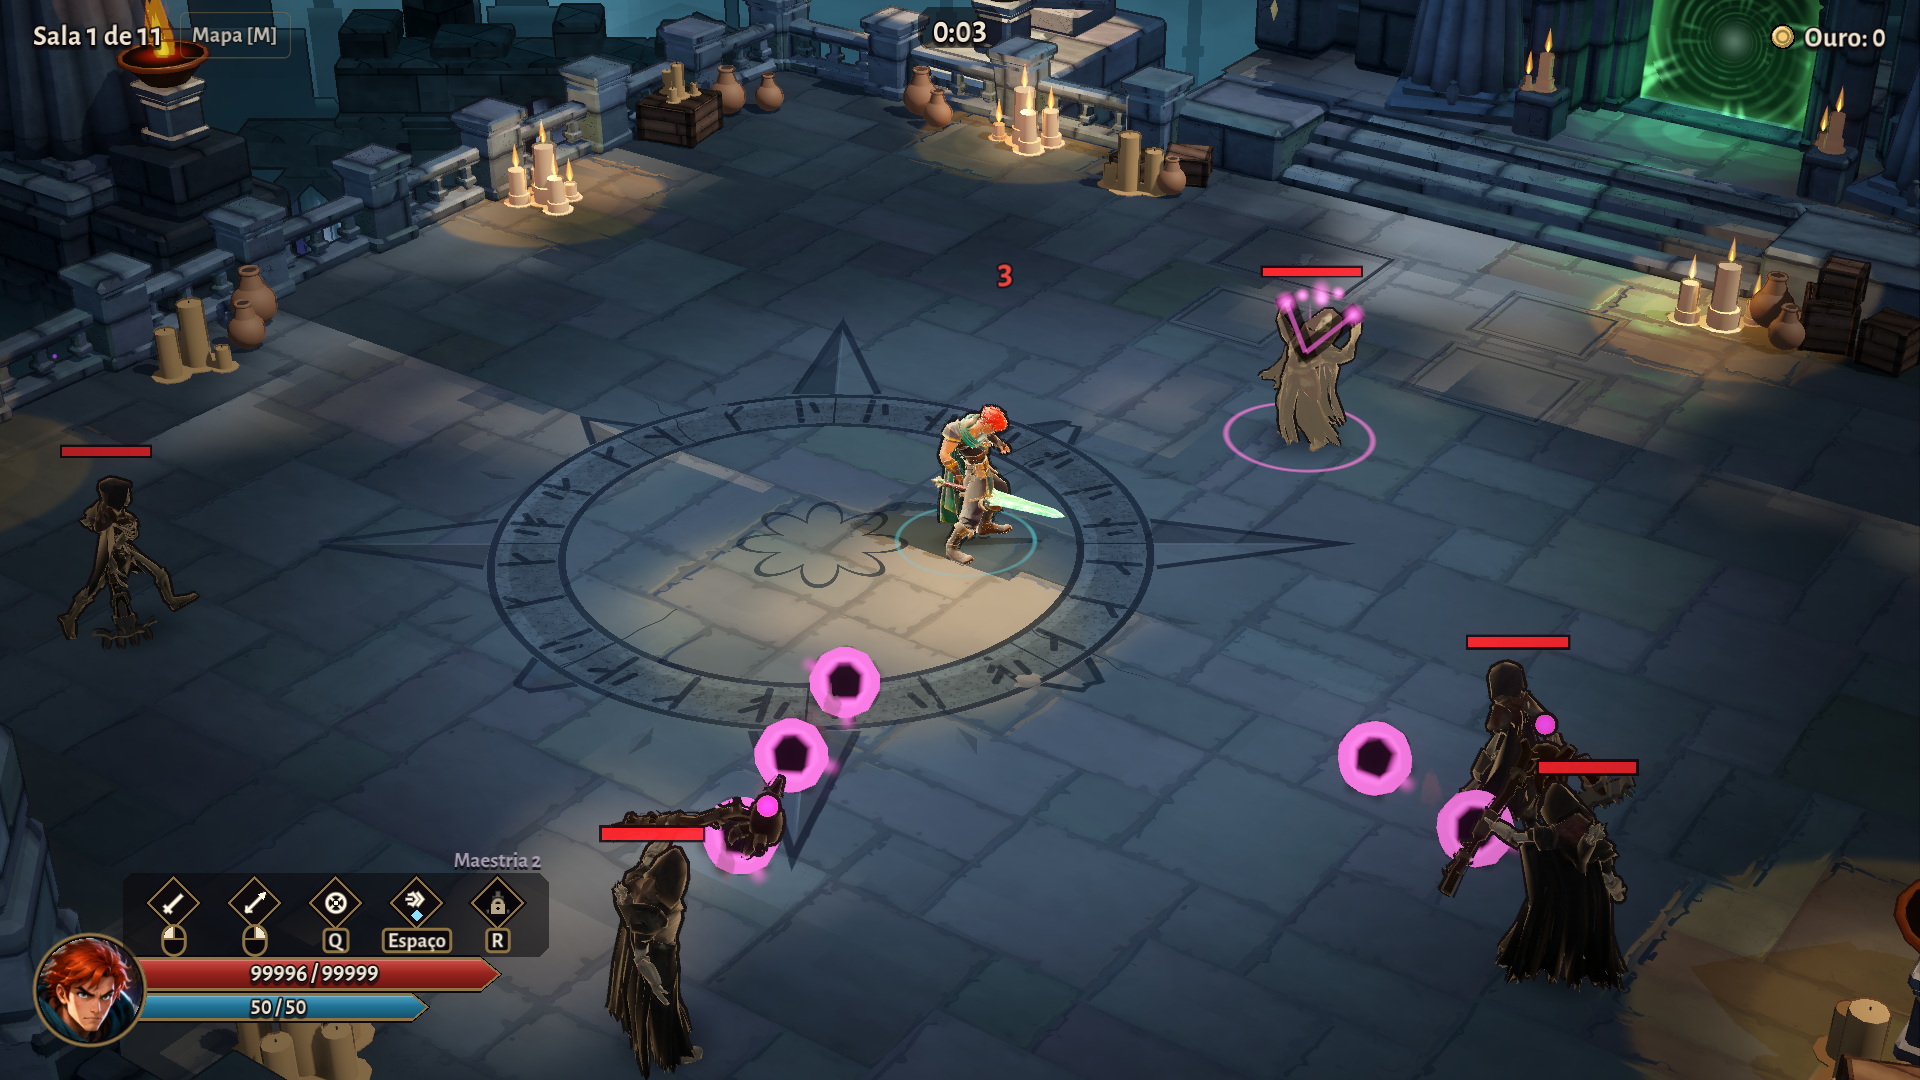
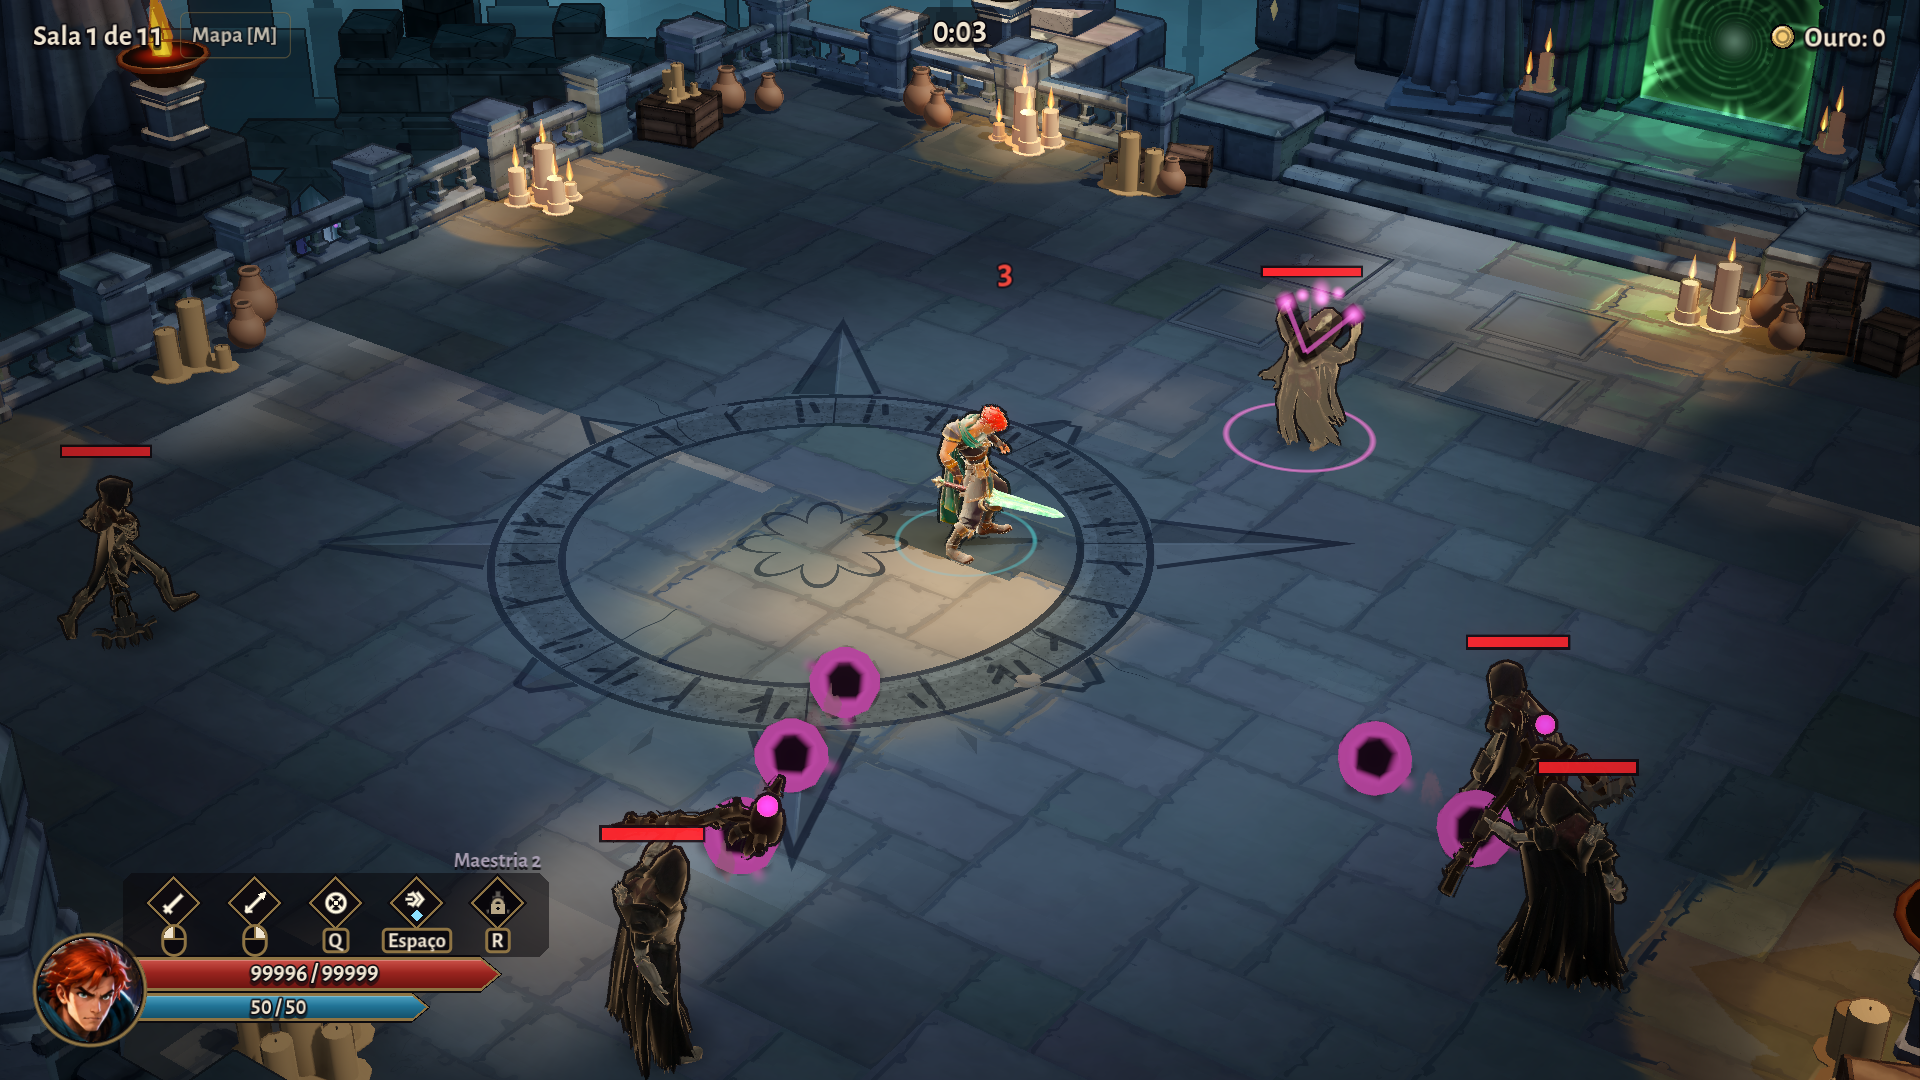
VFX pass lote 1: reward shaft (not wired yet), chips and smoke wisps instead of round particles, enemy shots with dark cores, hero blade back to emerald with a ribbon spin and a hit spark, gnawed violet scythe; darker stylized bodies; ink line on by default

diff --git a/CLAUDE.md b/CLAUDE.md
@@ -2682,8 +2682,9 @@ worktree). Tarefa pequena o Game Director faz direto. Protocolo completo: `docs/
   desfazem de baixo (`Fx.wisps`, MultiMesh de `WISP_POOL` 96, `wisp.gdshader`, premul: escuro cobre, claro soma pouco);
   cores todas abaixo de 1 (cura marfim-rosada, sombra de inimigo em fumaça escura, fogo com dois fiapos de fumaça no
   fim). `chip.gdshader` agora premul sob `cap` (226 na tela). Orçamento igual.
-- **V-11 e V-12, inimigo**: orbe com núcleo escuro (`enemy_orb.gdshader`: tinta no meio, aro na cor, `rim` 0,62) e
-  fumaça rasgada com três espinhos girando em volta (`enemy_orb_halo.gdshader`, premul); virote = agulha escura com a
+- **V-11 e V-12, inimigo**: orbe com núcleo escuro (`enemy_orb.gdshader`: tinta no meio, aro na cor, `rim` 0,21 e `hot` 0,1: o
+  `ScreenTone.linear_peak` do magenta e do carmim a 210 é 0,21 a 0,24; a 0,48 a curva da tela levava o aro a 248 e 255) e
+  fumaça rasgada com três espinhos girando em volta (`enemy_orb_halo.gdshader`, premul, `spike_light` 0,22); virote = agulha escura com a
   ponta na cor (`needle`), sem halo; rastro de fumaça a cada 0,45 m (virote) ou 0,7 m (orbe) (`Projectiles._trail`). Onde
   o golpe de um inimigo cai: anel de fumaça escura de borda rasgada que se abre, aro de dentro na cor sob 205 na tela, meio
   escuro, sete fiapos (`Fx.smoke_ring`, `smoke_ring.gdshader`, `Ground._land`; o `land_quick` é o anel fino); as
@@ -2694,7 +2695,8 @@ worktree). Tarefa pequena o Game Director faz direto. Protocolo completo: `docs/
   (`crescent.gdshader`: `CRESCENT_SPIN` 300 graus, finalizador `CRESCENT_ARC` 120 a 180, cabeça 0,35 m e cauda 0,08 m,
   fio só no terço da cabeça, a cauda some primeiro); o brilho do finalizador é estrela de 6 pontas desiguais girada por
   golpe, sem cruz nem risco longo (`glint.gdshader` `seed`, `spike_min_m` 0,18, `spike_max_m` 0,42); a estocada é uma
-  lâmina (`emeth_thrust.gdshader`: base a ponta 1,0 a 0,15, fio de 2 px, miolo escuro, tinta 0,4, entra em `THRUST_IN`
+  lâmina (`emeth_thrust.gdshader`: base a ponta 1,0 a 0,15 de `blade_share` 0,4 da largura do golpe, inteira lia como
+  folha verde; fio de 2 px, miolo `core_light` 0,12, miolo escuro, tinta 0,4, entra em `THRUST_IN`
   0,06 s e sai em `THRUST_OUT` 0,15; Ômega com os veios e `THRUST_SPIKES` 5 lascas de cristal na ponta); o estalo no
   contato (`Fx.contact`, `contact.gdshader`: 5 a 7 espinhos desiguais, metade num leque de 70 graus para onde a lâmina
   foi, miolo marfim 0,12 m, 0,05 s crescendo a 1,25; orçamento próprio `contacts` de 8 por quadro), chamado no
@@ -2709,3 +2711,10 @@ worktree). Tarefa pequena o Game Director faz direto. Protocolo completo: `docs/
   a pintura `saturation` 1,8 (`hero_paint.gdshader`) e a Emeth com teto pelo maior canal e cristal mais saturado
   (`emeth.gdshader` `style_back`/`style_face`, `EmethSword.STYLE_CORE`): verde na caixa do herói 0,61% para 1,00% na GPU,
   matiz 130 (`docs/gallery/hb/hb3_*`). `chain_weight` refeito (elos a 90 graus, catenária, contrapeso de 0,7 m).
+- **Corpo da multidão um quarto mais escuro no estilizado** (Game Director: no calcário do Santuário o osso lia tão claro
+  quanto a laje): `crowd.gdshader` `style_light` 0,15, `style_scene` 0,075, `style_rim` 0,14, `style_hero` 0,15 (eram 0,2 /
+  0,1 / 0,18 / 0,2); ouro das elites, "vai bater" e pisca iguais. Osso do esqueleto no Santuário A (RTX 1080, semente 5,
+  `--arena=sanctuary --hero-at=-12,-9.5`, 4 s) p50 85 para 74 contra o chão 96 a 108 (22 a 34 abaixo, meta 25).
+- Medido no fim (RTX 1080, estilizado, semente 5, `docs/gallery/vfx_pass/`): orbes p99 180 a 185, nenhum pixel acima de
+  210, matiz 313 (a cor do feiticeiro do `make_data.gd`; a spec pede 320 a 355); fita do giro matiz p50 135, p99 226;
+  estalo do contato até 225; foice e Ceifa matiz p50 250 a 254, sem ciano no setor. Sonda de sensação 41/41.

diff --git a/docs/qa/asset_report.md b/docs/qa/asset_report.md
@@ -304,12 +304,13 @@ Evidência em `docs/gallery/vfx_pass/` (antes em `docs/art/shots/vfx_pass_before
   maior canal p99 159 (`shafts_sheet_stylized.png`, também `_classic` e `_compat`). Falta ligar no jogo
   (gameplay-engineer) e medir a poça contra um chão de sala (o chão do laboratório é claro demais, 105).
 - P0 feito, partículas: nenhum `CPUParticles3D` no `Fx`, nenhum ponto redondo; teto premul de 226 nas lascas.
-- P0 feito, orbe e virote com núcleo escuro; orbe p99 244 (1,6% acima de 210) na primeira captura, aro baixado de 0,62
-  para 0,48 depois (recaptura pendente); anel de fumaça no golpe que cai.
+- P0 feito, orbe e virote com núcleo escuro: aro a 0,62 ia a 248 a 255 na tela (a curva satura o magenta); a 0,21,
+  p99 180 a 185, nada acima de 210, matiz 313 (spec 320 a 355: cor do gameplay-engineer); anel de fumaça no golpe que cai.
 - P0 feito, V-01 a V-05 e V-16 (ver CLAUDE.md). Fita do giro sem anel fechado (`h_spin.png`); estalo do contato visível
   (`s_hit.png`). A estocada saiu primeiro como lâmina da largura inteira do golpe (lia como folha verde) e foi afinada
-  a 0,4 da largura (recaptura pendente).
-- P1, a medir: V-01 matiz do corte 122 a 150 e p99 até 226 sobre Morvath; V-16 matiz 240 a 285 no setor.
+  a 0,4 da largura (`s_omega.png` recapturada).
+- Medido: fita do giro matiz p50 135 e p99 226; estalo até 225; foice e Ceifa matiz p50 250 a 254 sem ciano no setor.
+  Falta: o corte comum sobre Morvath (as capturas pegaram o especial) e a explosão do corredor (`e_runner.png` pegou o aviso).
 - HB3: verde na caixa do herói 0,61% para 1,00% (meta 1%), Emeth matiz 130.
 - Tinta: com 12 inimigos na Perto, Alta e Média, nenhuma borda nas figuras nem sobre as barras.
 - Santuário (pedido do Game Director): osso do esqueleto p50 85 para 74 contra o calcário 96 a 108 (corpo um quarto
